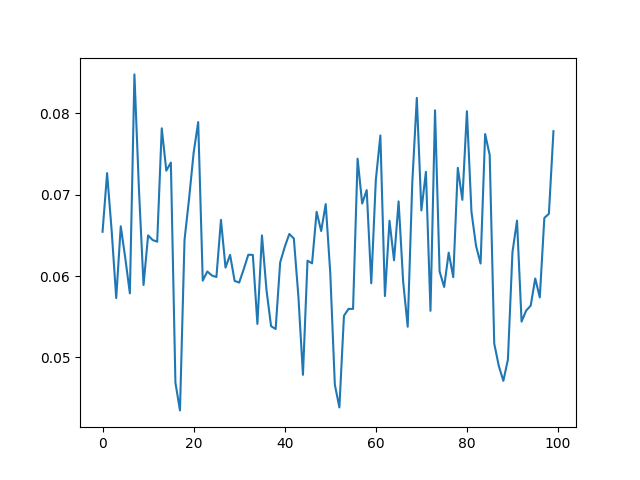
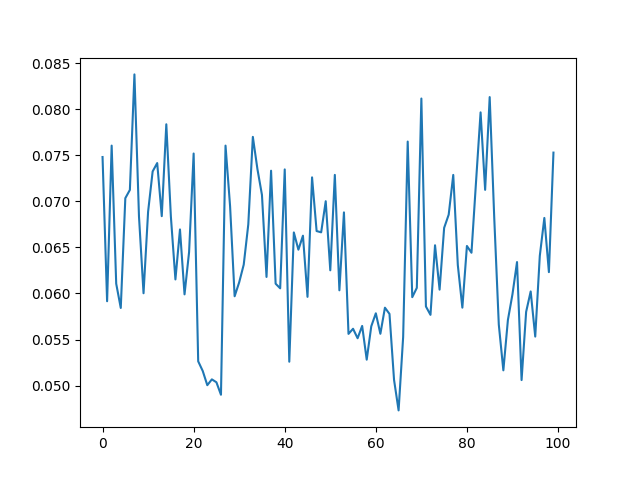
[Config] get_length

diff --git a/genetic_model.py b/genetic_model.py
@@ -64,7 +64,7 @@ class Genetic_model:
         bezier_dangers = []
         for chromo in self.chromosomes:
             bezier = chromosome_to_bezier(chromo)
-            length = bezier.get_length()
+            length = bezier.get_length(bezier)
             danger = measure_bezier_danger(bezier, map)
             
             bezier_lengths.append(length)
@@ -78,7 +78,7 @@ class Genetic_model:
         num_elites = int(len(self.chromosomes) * ELITISM_RATIO)
         sorted_indices = np.argsort(self.fitness_scores)  
         self.elite_indices = sorted_indices[:num_elites]
-        self.non_elite_indices = sorted_indices[num_elites:]
+        self.non_elite_indices = sorted_indices[num_elites:] 
 
     def crossover(self):
         # print("Performing Crossover") 
@@ -101,11 +101,13 @@ class Genetic_model:
             self.chromosomes[chosen_parent_indices[i+1]] = daughter
 
     def mutate_add_gene(self, chromo_index):
-        position = np.random.randint(1, len(self.chromosomes[chromo_index]) - 1) 
+       # Access the actual chromosome using the index from non_elite_indices
+        position = np.random.randint(1, len(self.chromosomes[chromo_index]) - 1)
         new_gene = [np.random.randint(SCREEN_WIDTH), np.random.randint(SCREEN_HEIGHT)]
         self.chromosomes[chromo_index].insert(position, new_gene)
 
     def mutate_remove_gene(self, chromo_index):
+        # Access the actual chromosome using the index from non_elite_indices
         position = np.random.randint(1, len(self.chromosomes[chromo_index]) - 1) 
         del self.chromosomes[chromo_index][position]
 
@@ -114,37 +116,40 @@ class Genetic_model:
         self.chromosomes[chromo_index][position] = [
                 np.random.randint(SCREEN_WIDTH),
                 np.random.randint(SCREEN_HEIGHT)
-                ]
+            ]
 
     def mutate(self):
         # print("Performing Mutation")
-
-        mutate_chosen = np.random.choice([True, False], size=len(self.non_elite_indices), p=[MUTATION_RATIO, 1-MUTATION_RATIO])
-        for i, chromo_index in enumerate(self.non_elite_indices):
-            if mutate_chosen[i]:  # Apply mutation if chosen
-                mutate_type = np.random.randint(3)  # Randomly choose a mutation type
-                if mutate_type == 0:
-                    self.mutate_edit_gene(chromo_index)
-                elif mutate_type == 1:
+        mutate_chosen = np.random.choice([True, False], size=len(self.non_elite_indices), p=[MUTATION_RATIO, 1 - MUTATION_RATIO])
+        for i, mutate_flag in enumerate(mutate_chosen):
+            if mutate_flag:
+                chromo_index = self.non_elite_indices[i]  # This is now an integer, not a list
+                mutation_type = np.random.choice(['add', 'remove', 'edit'])
+                if mutation_type == 'add':
                     self.mutate_add_gene(chromo_index)
-                else:
+                elif mutation_type == 'remove':
                     self.mutate_remove_gene(chromo_index)
+                elif mutation_type == 'edit':
+                    self.mutate_edit_gene(chromo_index)
 
     def validate(self, map): 
         # print("Validating Population")
-        i = 0
-        while(i < len(self.chromosomes)):
-            bezier = chromosome_to_bezier((self.chromosomes[i]))
+        valid_chromosomes = []
+    
+        for chromo in self.chromosomes:
+            bezier = chromosome_to_bezier(chromo)
             valid = True
             for obs in map.obstacles:
                 _, proj_length = bezier.get_projection_of(obs.position)
-                if(proj_length <= obs.radius):
+                if proj_length <= obs.radius:  # Check if chromosome is invalid
                     valid = False
                     break
+        
             if valid:
-                i = i + 1
-            else:
-                del self.chromosomes[i]
+                valid_chromosomes.append(chromo)  # Only keep valid chromosomes
+
+        # Replace the old population with the validated one
+        self.chromosomes = valid_chromosomes
 
     def full_fill_population(self):
         valid_chromosomes = len(self.chromosomes)

diff --git a/bezier.py b/bezier.py
@@ -25,20 +25,37 @@ BINARY_SEARCH_STOP_THRESHOLD = 1E-5
 #         smoothness += angle
 #     return smoothness
 
-def measure_bezier_danger(bezier, map):
-    danger_map = map.danger_map
-    
-    # Generate sampling points along the Bézier curve, excluding the start and end
-    t_values = np.linspace(0, 1, BEZIER_RESOLUTION)
-    sampled_points = [bezier.calculate_local_point(t) for t in t_values[1:-1]]  # Exclude t=0 and t=1
-    total_danger = 0
-    for x, y in sampled_points:
-        row, col = int(y), int(x)
-        if 0 <= row < danger_map.shape[0] and 0 <= col < danger_map.shape[1]:
-            total_danger += danger_map[row, col]
+def measure_bezier_danger(bezier, terrain):
+    """Measures the average danger along a Bézier curve on a danger map.
 
-    # Return the average danger, or 0 if no points were sampled
-    return total_danger / len(sampled_points) if len(sampled_points) > 0 else 0
+    Args:
+        bezier: An object with a method `calculate_local_point(t)` for evaluating points on the curve.
+        terrain: An object with a 2D NumPy array attribute `danger_map`.
+
+    Returns:
+        The average danger value along the Bézier curve.
+    """
+    danger_map = terrain.danger_map
+    
+    # Generate sampling points along the Bézier curve
+    t_values = np.linspace(0, 1, BEZIER_RESOLUTION)
+    sampled_points = np.array([bezier.calculate_local_point(t) for t in t_values[1:-1]])
+    
+    # Convert points to grid indices
+    indices = np.floor(sampled_points).astype(int)  # Use floor for safety
+    
+    # Filter points within bounds
+    valid_mask = (
+        (indices[:, 0] >= 0) & (indices[:, 0] < danger_map.shape[1]) &  # x bounds
+        (indices[:, 1] >= 0) & (indices[:, 1] < danger_map.shape[0])    # y bounds
+    )
+    valid_indices = indices[valid_mask]
+    
+    # Accumulate danger values
+    total_danger = sum(danger_map[y, x] for x, y in valid_indices)
+    
+    # Return the average danger, or 0 if no points are valid
+    return total_danger / len(valid_indices) if len(valid_indices) > 0 else 0
 
 class Bezier:
     def __init__(self):
@@ -123,18 +140,14 @@ class Bezier:
         return self.calculate_local_point(t), projection_length
 
 
-    def get_length(self):
-        if len(self.control_points) < 2:
-            return 0.0
-
-        t_values = np.linspace(0, 1, BEZIER_RESOLUTION)
-        total_length = 0.0
-
-        for i in range(BEZIER_RESOLUTION - 1):
-            t1, t2 = t_values[i], t_values[i + 1]
-            p1 = self.calculate_first_derivative(t1)
-            p2 = self.calculate_first_derivative(t2)
-            # Approximate integral using the trapezoidal rule
-            avg_magnitude = (np.linalg.norm(p1) + np.linalg.norm(p2)) / 2
-            total_length += avg_magnitude * (t2 - t1)
-        return total_length    
+    def get_length(self,bezier):
+        t_values = np.linspace(0, 1,BEZIER_RESOLUTION)
+        sampled_points = np.array([bezier.calculate_local_point(t) for t in t_values])
+    
+        # Calculate the distances between consecutive points
+        distances = np.sqrt(np.sum(np.diff(sampled_points, axis=0) ** 2, axis=1))
+    
+        # Sum up the distances to approximate the curve length
+        total_length = np.sum(distances)
+    
+        return total_length

diff --git a/train.py b/train.py
@@ -48,7 +48,7 @@ if __name__ == "__main__":
     # map.generate_danger_map()
     # map.save_danger_map("danger_map.txt")
     map.load_danger_map("danger_map.txt")
-
+  
     model = Genetic_model()
     model.generate_initial_population() 
 
